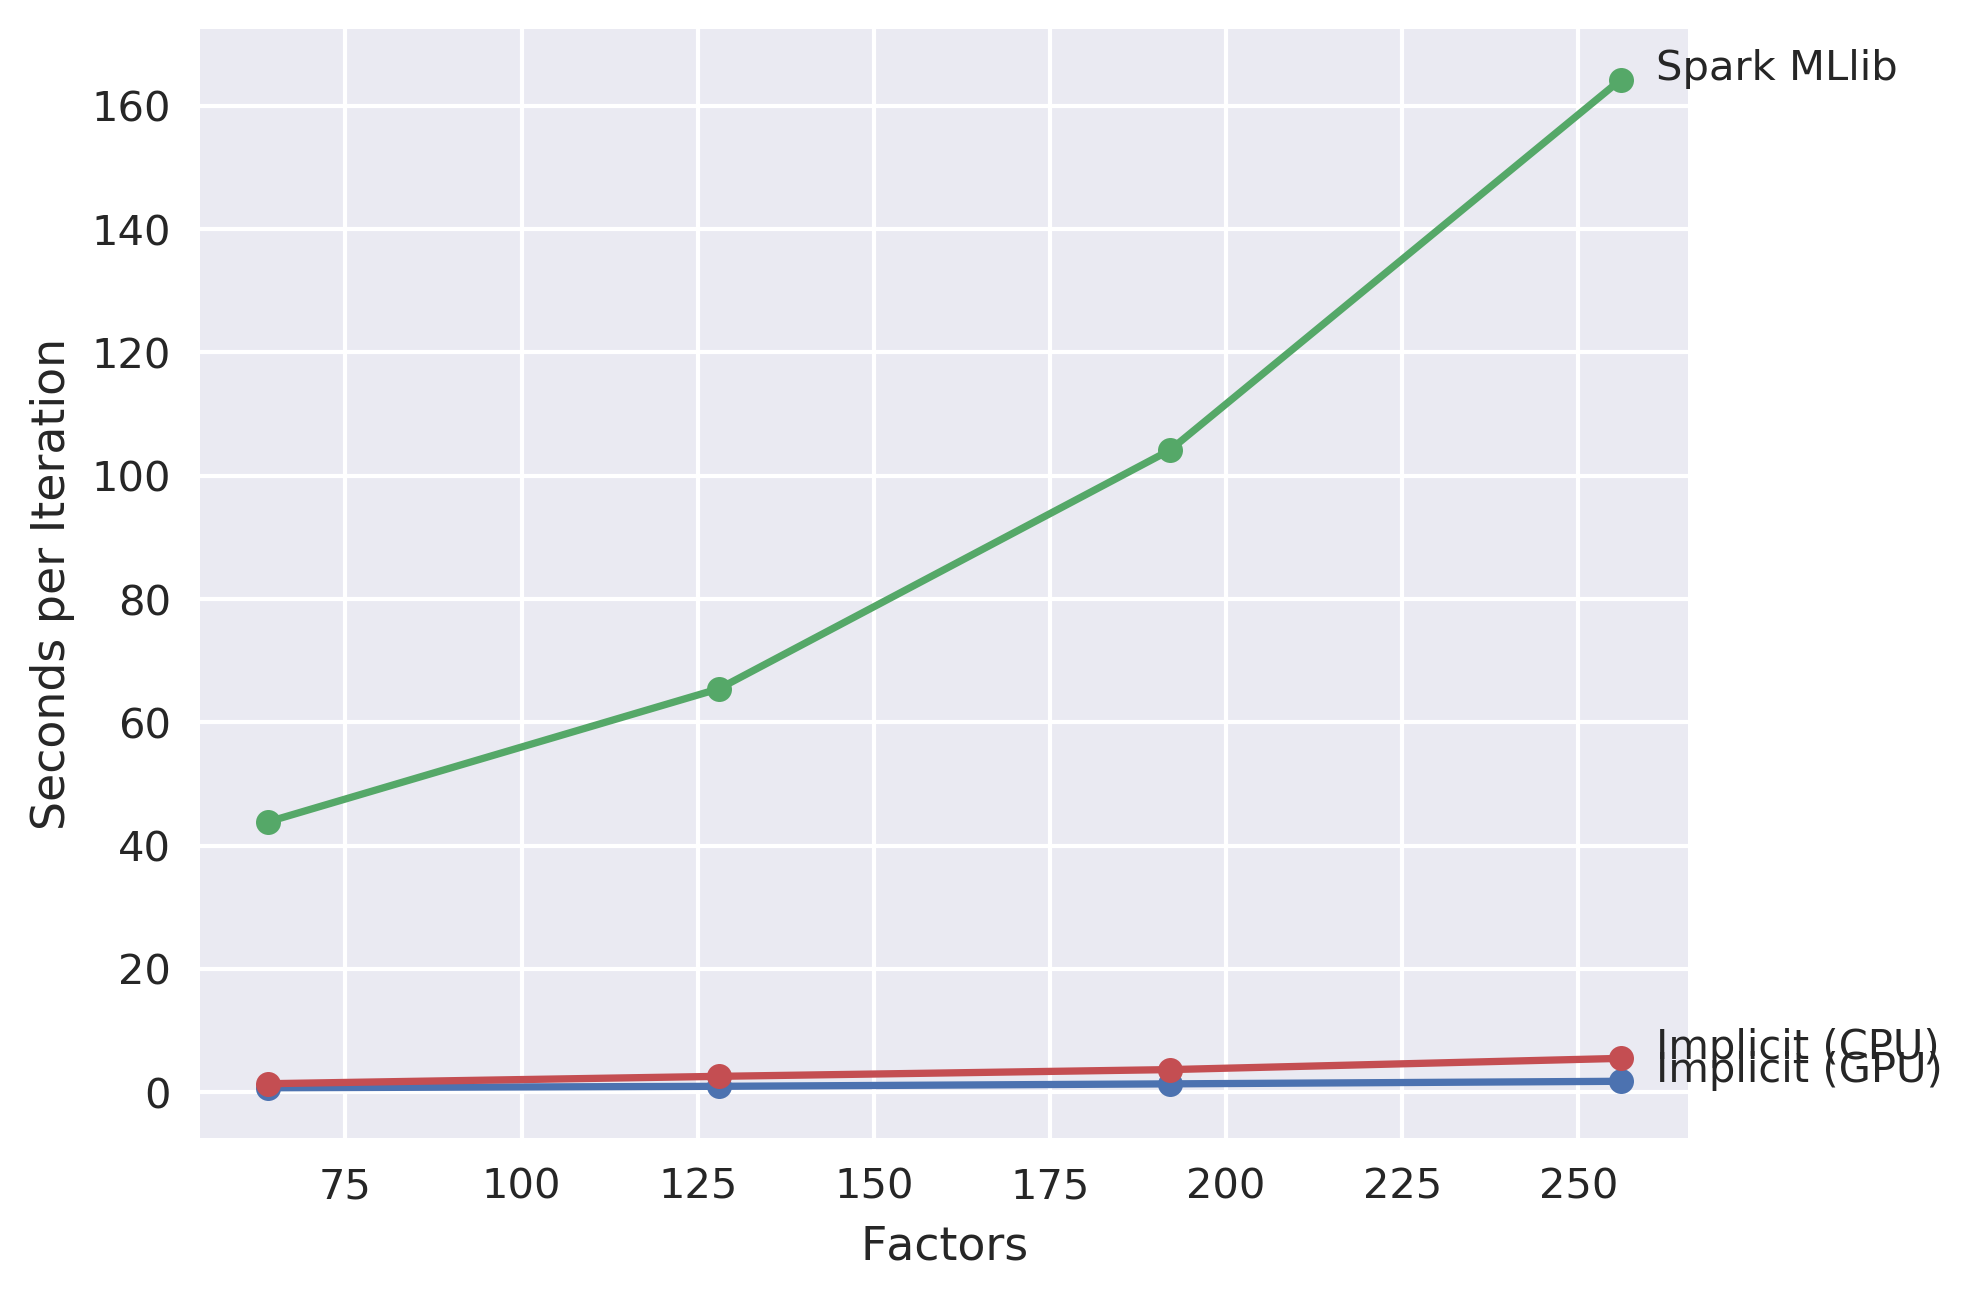
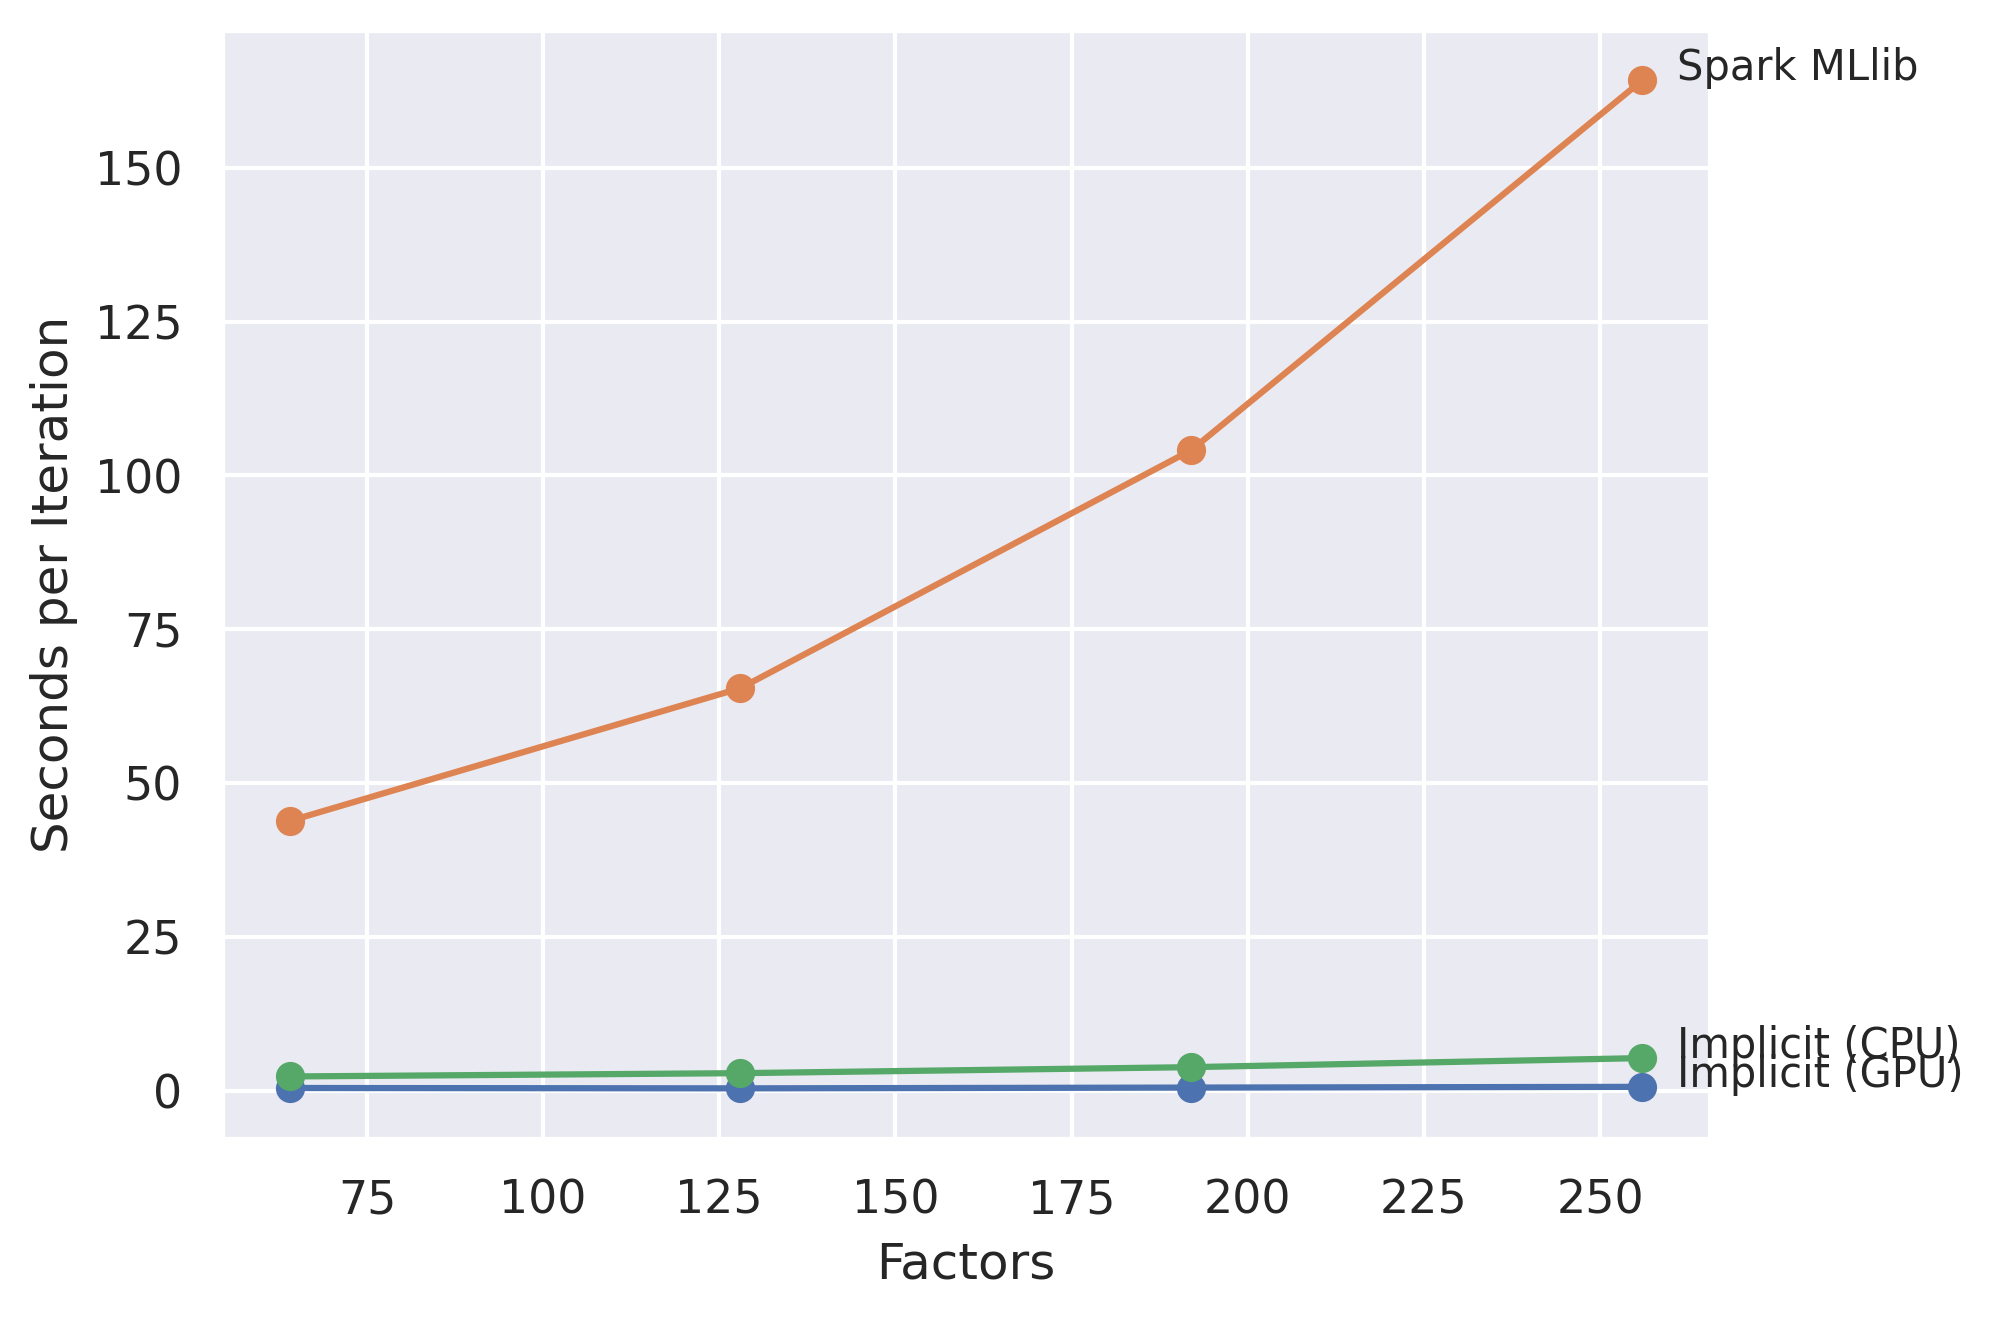
Update benchmarks with latest numbers
We've had a couple perfomance improvements recently - update the benchmarks
to reflect the latest status.

diff --git a/benchmarks/benchmark_spark.py b/benchmarks/benchmark_spark.py
@@ -52,7 +52,7 @@ def benchmark_spark(ratings, factors, iterations=5):
             als.fit(ratings)
             elapsed = time.time() - start
             times[rank] = elapsed / iterations
-            print("spark. factors={rank} took {elapsed / iterations:.3f}")
+            print(f"spark. factors={rank} took {elapsed / iterations:.3f}")
     finally:
         spark.stop()
 
@@ -71,7 +71,7 @@ def benchmark_implicit(ratings, factors, iterations=5, use_gpu=False):
         elapsed = time.time() - start
         # take average time over iterations to be consistent with spark timings
         times[rank] = elapsed / iterations
-        print("implicit. factors={rank} took {elapsed / iterations:.3f}")
+        print(f"implicit. factors={rank} took {elapsed / iterations:.3f}")
     return times
 
 
@@ -99,11 +99,8 @@ def main():
     )
     parser.add_argument("--output", type=str, required=True, help="output file location")
     args = parser.parse_args()
-    if not (args.speed or args.loss):
-        print("must specify at least one of --speed or --loss")
-        parser.print_help()
 
-    m = scipy.io.mmread(args.inputfile)
+    m = scipy.io.mmread(args.input)
 
     times = {}
     factors = list(range(64, 257, 64))

diff --git a/benchmarks/README.md b/benchmarks/README.md
@@ -2,7 +2,7 @@ Benchmarks
 ==========
 
 All benchmarks reported here were performed on an Intel i7-7820x CPU. GPU Benchmarks were done
-on a NVIDIA GTX 1080 Ti.
+on a NVIDIA A6000.
 
 ### Spark Comparison
 
@@ -21,19 +21,19 @@ The times per iteration are average times over 5 iterations.
 #### last.fm 360k dataset
 
 For the lastm.fm dataset at 256 factors, implicit on the CPU is 30x faster than Spark and the GPU version of implicit is
- 93x faster than Spark:
+ 260x faster than Spark:
 
 ![last.fm als train time](./spark_speed_lastfm.png)
 
 <!--
-{'Implicit (CPU)': {64: 1.3660077571868896,
-  128: 2.5609301567077636,
-  192: 3.6533109664916994,
-  256: 5.476823997497559},
- 'Implicit (GPU)': {64: 0.7076258182525634,
-  128: 0.9427927494049072,
-  192: 1.3412117958068848,
-  256: 1.7588469505310058},
+{'Implicit (GPU)': {64: 0.44644722938537595,
+  128: 0.38864846229553224,
+  192: 0.5134327411651611,
+  256: 0.6314576625823974},
+'Implicit (CPU)': {64: 2.3200541973114013,
+  128: 2.8571616649627685,
+  192: 3.833038663864136,
+  256: 5.307447624206543},
  'Spark MLlib': {64: 43.841095733642575,
   128: 65.43235535621643,
   192: 104.12412366867065,
@@ -43,19 +43,19 @@ For the lastm.fm dataset at 256 factors, implicit on the CPU is 30x faster than 
 
 #### MovieLens 20M dataset
 
-For the ml20m dataset at 256 factors, implicit on the CPU was 8x faster than Spark while the GPU version
-was 68x faster than Spark:
+For the ml20m dataset at 256 factors, implicit on the CPU was 23x faster than Spark while the GPU version
+was 180x faster than Spark:
 
 ![als train time](./spark_speed_ml20m.png)
 <!--
-{'Implicit (CPU)': {64: 2.7515282154083254,
-  128: 4.217876005172729,
-  192: 5.335603475570679,
-  256: 6.5248472690582275},
- 'Implicit (GPU)': {64: 0.3966668605804443,
-  128: 0.44752702713012693,
-  192: 0.6295590400695801,
-  256: 0.7912652492523193},
+{'Implicit (GPU)': {64: 0.3278830528259277,
+  128: 0.22653441429138182,
+  192: 0.26464319229125977,
+  256: 0.29997830390930175},
+'Implicit (CPU)': {64: 0.8396152973175048,
+  128: 1.2089608192443848,
+  192: 1.6725208759307861,
+  256: 2.3451559066772463},
  'Spark MLlib': {64: 12.285535764694213,
   128: 19.666392993927,
   192: 33.25573806762695,
@@ -64,6 +64,3 @@ was 68x faster than Spark:
 
 Note that this dataset was filtered down for all versions to reviews that were positive (4+
 stars), to simulate a truly implicit dataset.
-
-Implicit on the CPU seems to suffer a bit here relative to the other options. It seems like there might
-be a single threaded bottleneck at some point that's worth examining later.
